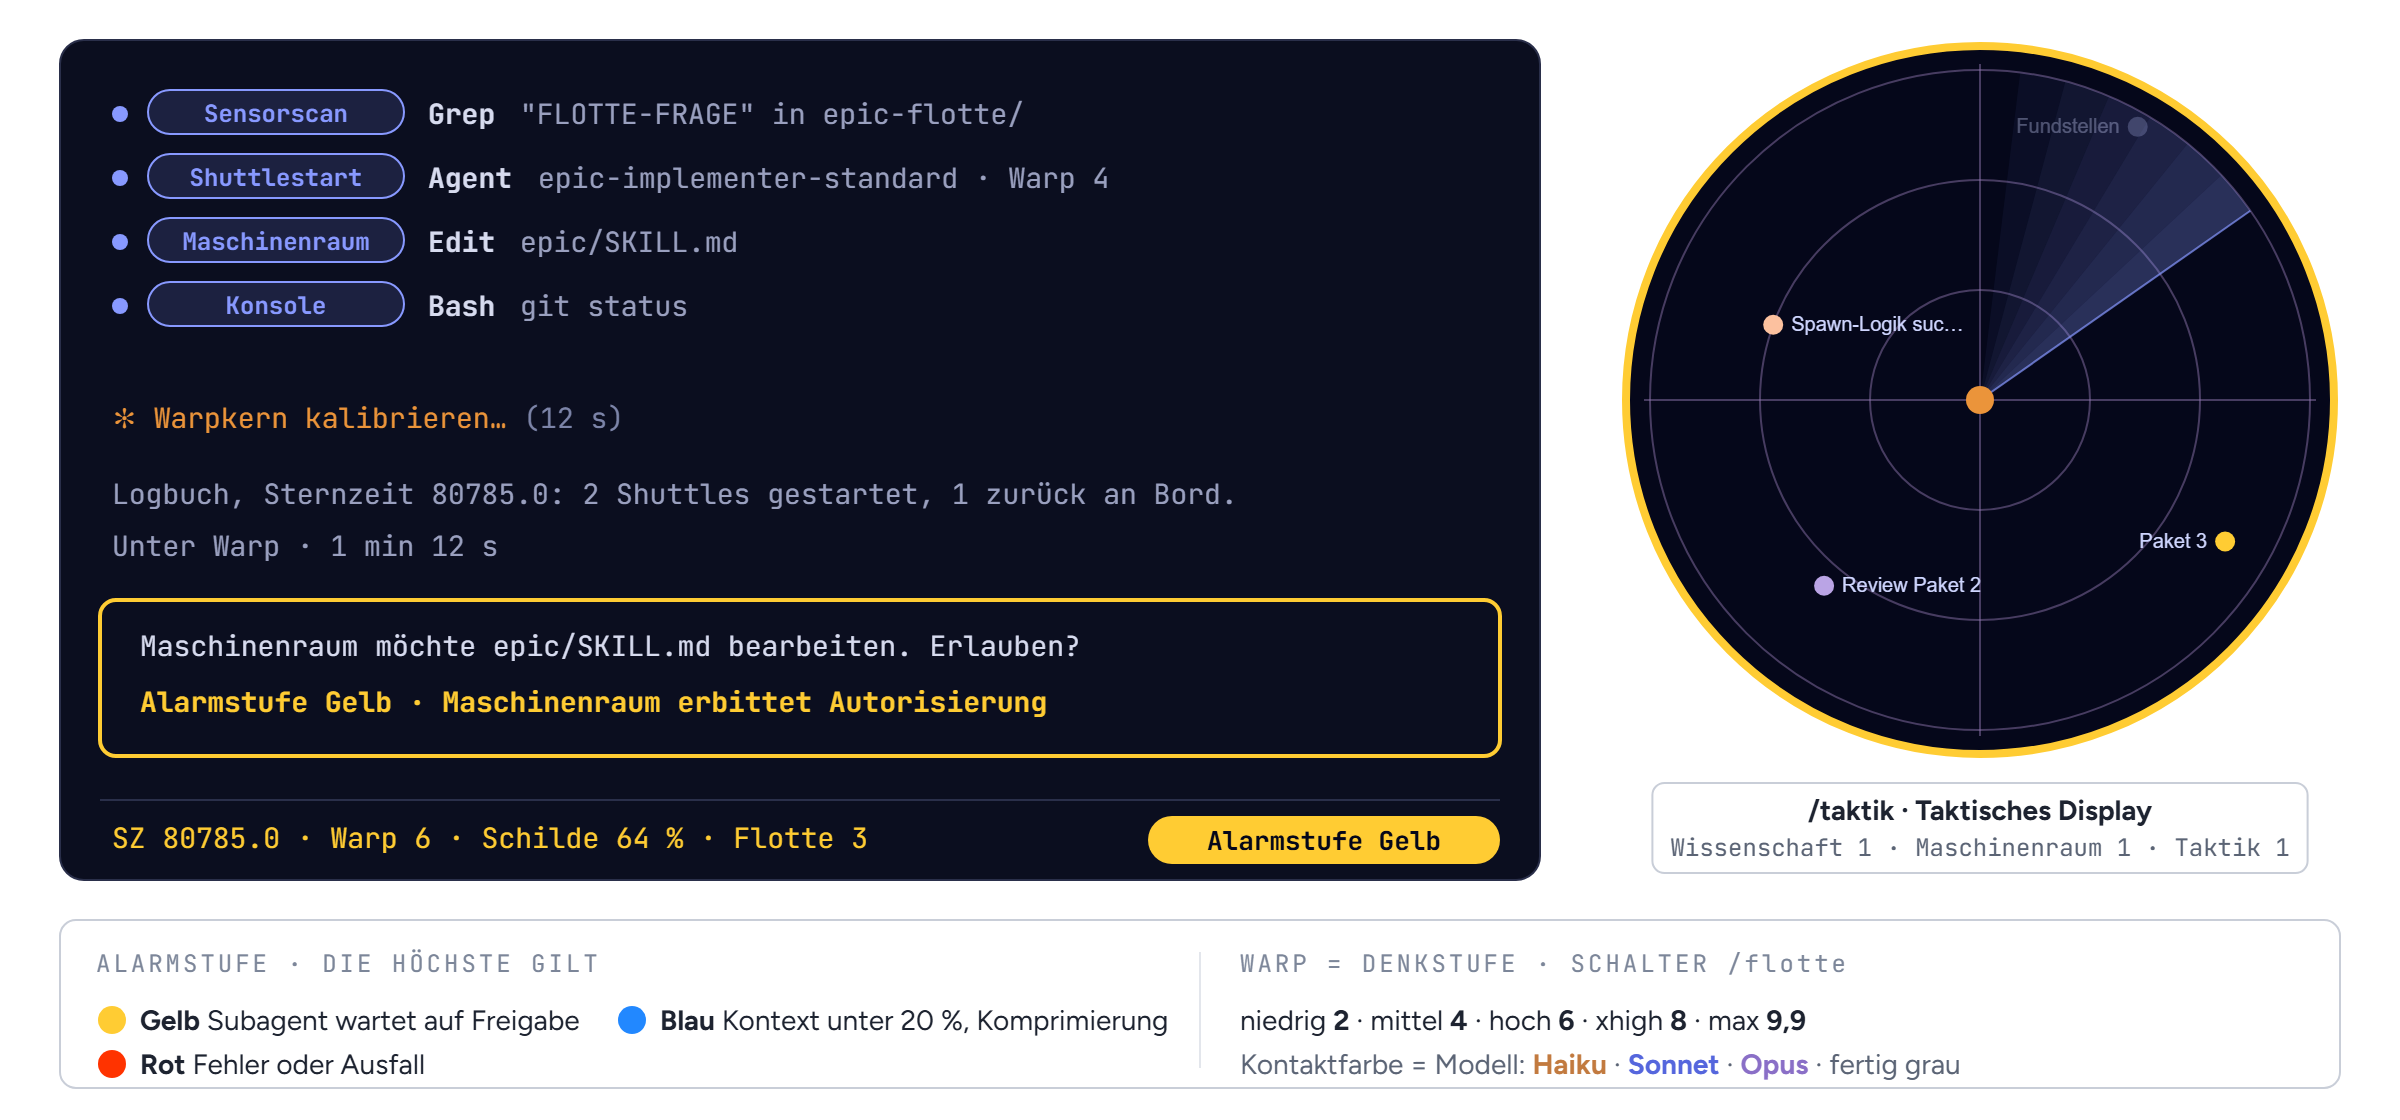
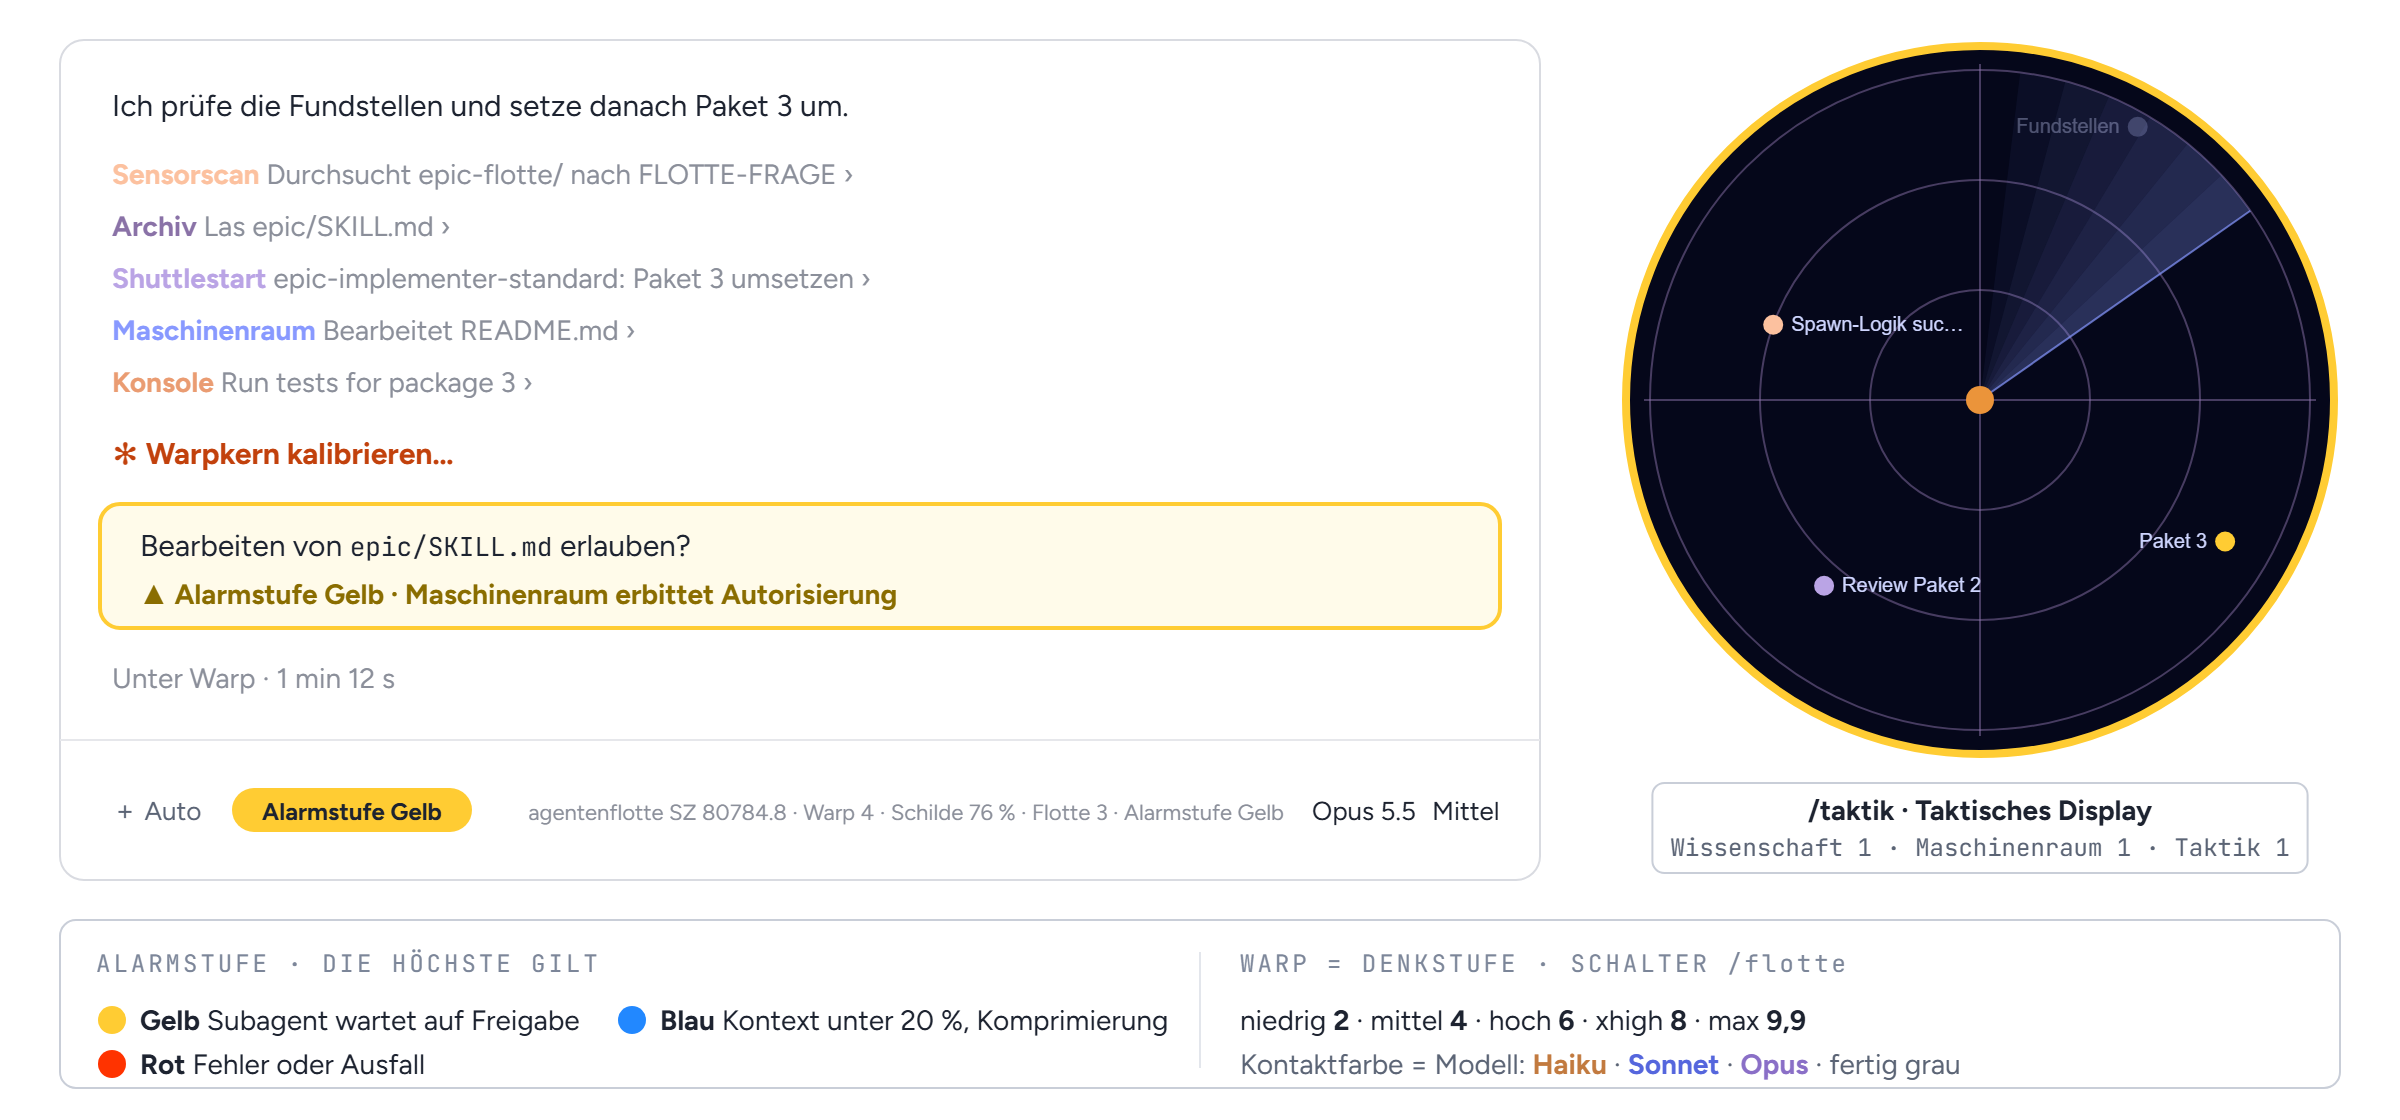
docs(readme): draw the agentenflotte bridge as the desktop app shows it

diff --git a/assets/agentenflotte/agentenflotte.html b/assets/agentenflotte/agentenflotte.html
@@ -9,22 +9,26 @@
   /* Transparent ground: the terminal and the radar are dark panels, the legend sits on a white plate. */
 </style>
 <svg id="pic" viewBox="0 0 1200 560" xmlns="http://www.w3.org/2000/svg" role="img" aria-label="Brückenbild: das Plugin agentenflotte im Terminal und als taktisches Display">
-  <!-- terminal -->
-  <rect x="30" y="20" width="740" height="420" rx="12" fill="#0b0e1f" stroke="#2a2f4a"/>
-  <g font-family="JetBrains Mono" font-size="14" fill="#d7dbef">
+  <!-- desktop app: conversation and footer as the bridge draws them -->
+  <rect x="30" y="20" width="740" height="420" rx="12" fill="#ffffff" stroke="#d9dbe1"/>
+  <g font-family="Figtree" font-size="15" fill="#1d2330">
+    <text x="56" y="58">Ich prüfe die Fundstellen und setze danach Paket 3 um.</text>
     <g id="rows"></g>
-    <text x="56" y="214" fill="#eb943a">✻ Warpkern kalibrieren… <tspan fill="#7c84a8">(12 s)</tspan></text>
-    <text x="56" y="252" fill="#9aa0bf">Logbuch, Sternzeit 80785.0: 2 Shuttles gestartet, 1 zurück an Bord.</text>
-    <text x="56" y="278" fill="#9aa0bf">Unter Warp · 1 min 12 s</text>
+    <text x="56" y="232" font-size="15" fill="#c2410c" font-weight="700">✻ Warpkern kalibrieren…</text>
 
-    <rect x="50" y="300" width="700" height="78" rx="8" fill="none" stroke="#ffcc33" stroke-width="2"/>
-    <text x="70" y="328">Maschinenraum möchte epic/SKILL.md bearbeiten. Erlauben?</text>
-    <text x="70" y="356" fill="#ffcc33" font-weight="700">Alarmstufe Gelb · Maschinenraum erbittet Autorisierung</text>
+    <rect x="50" y="252" width="700" height="62" rx="10" fill="#fffbea" stroke="#ffcc33" stroke-width="2"/>
+    <text x="70" y="278">Bearbeiten von <tspan font-family="JetBrains Mono" font-size="13">epic/SKILL.md</tspan> erlauben?</text>
+    <text x="70" y="302" font-size="14" fill="#8a6d00" font-weight="700">▲ Alarmstufe Gelb · Maschinenraum erbittet Autorisierung</text>
 
-    <line x1="50" y1="400" x2="750" y2="400" stroke="#2a2f4a"/>
-    <text x="56" y="424" fill="#ffcc33">SZ 80785.0 · Warp 6 · Schilde 64 % · Flotte 3</text>
-    <rect x="574" y="408" width="176" height="24" rx="12" fill="#ffcc33"/>
-    <text x="662" y="425" text-anchor="middle" fill="#05071a" font-weight="700" font-size="13">Alarmstufe Gelb</text>
+    <text x="56" y="344" font-size="14" fill="#8b8f9a">Unter Warp · 1 min 12 s</text>
+
+    <line x1="30" y1="370" x2="770" y2="370" stroke="#e6e7eb"/>
+    <text x="56" y="410" font-size="13" fill="#5b6475">＋  Auto</text>
+    <rect x="116" y="394" width="120" height="22" rx="11" fill="#ffcc33"/>
+    <text x="176" y="410" text-anchor="middle" font-size="12" font-weight="700" fill="#1d2330">Alarmstufe Gelb</text>
+    <text x="642" y="410" text-anchor="end" font-size="11" fill="#8b8f9a">agentenflotte  SZ 80784.8 · Warp 4 · Schilde 76 % · Flotte 3 · Alarmstufe Gelb</text>
+    <text x="656" y="410" font-size="13" fill="#1d2330">Opus 5.5</text>
+    <text x="716" y="410" font-size="13" fill="#1d2330">Mittel</text>
   </g>
 
   <!-- radar, geometry and colors as radarSvg in agentenflotte/hooks/taktik.tsx, scaled -->
@@ -58,20 +62,19 @@
     return e;
   };
 
-  // tool rows with station labels
+  // tool rows: the station label is a bold word in its color before the row (bruecke.tsx, ToolUse)
   const rows = document.getElementById('rows');
   [
-    ['Sensorscan', 'Grep', '"FLOTTE-FRAGE" in epic-flotte/'],
-    ['Shuttlestart', 'Agent', 'epic-implementer-standard · Warp 4'],
-    ['Maschinenraum', 'Edit', 'epic/SKILL.md'],
-    ['Konsole', 'Bash', 'git status'],
-  ].forEach(([station, tool, arg], i) => {
-    const y = 62 + i * 32;
-    el(rows, 'circle', { cx: 60, cy: y - 5, r: 4, fill: '#8899ff' });
-    el(rows, 'rect', { x: 74, y: y - 17, width: 128, height: 22, rx: 11, fill: '#1c2140', stroke: '#8899ff' });
-    el(rows, 'text', { x: 138, y: y - 1, 'text-anchor': 'middle', fill: '#8899ff', 'font-size': 12, 'font-weight': 700 }, station);
-    el(rows, 'text', { x: 214, y, 'font-weight': 700 }, tool);
-    el(rows, 'text', { x: 214 + tool.length * 9 + 10, y, fill: '#9aa0bf' }, arg);
+    ['Sensorscan', '#fcc19f', 'Durchsucht epic-flotte/ nach FLOTTE-FRAGE'],
+    ['Archiv', '#8a72a7', 'Las epic/SKILL.md'],
+    ['Shuttlestart', '#baa4e5', 'epic-implementer-standard: Paket 3 umsetzen'],
+    ['Maschinenraum', '#8899ff', 'Bearbeitet README.md'],
+    ['Konsole', '#ea9c72', 'Run tests for package 3'],
+  ].forEach(([station, color, text], i) => {
+    const y = 92 + i * 26;
+    const t = el(rows, 'text', { x: 56, y, 'font-size': 14 });
+    el(t, 'tspan', { fill: color, 'font-weight': 700 }, station + '  ');
+    el(t, 'tspan', { fill: '#8b8f9a' }, text + '  ›');
   });
 
   // radar

diff --git a/README.md b/README.md
@@ -65,7 +65,7 @@ deren Ablauf nicht.
 
 ## Plugin `agentenflotte`
 
-![Brückenbild: links ein Terminal mit Stationsetiketten an den Werkzeugzeilen, Brücken-Spinner, Logbuchzeile, einer Freigabe unter Alarmstufe Gelb und der Statuszeile mit Sternzeit, Warp, Schilden und Flotte; rechts das taktische Display als Radar mit der Hauptsitzung in der Mitte und den Subagenten als Kontakte. Darunter Alarmstufen und Warpfaktoren.](assets/agentenflotte/agentenflotte.png)
+![Brückenbild: links die Desktop-App mit farbigen Stationsetiketten vor den Werkzeugzeilen, Brücken-Spinner, einer Freigabe unter Alarmstufe Gelb, der Zeile Unter Warp und in der Fußleiste Alarm-Etikett und Statuszeile mit Sternzeit, Warp, Schilden und Flotte; rechts das taktische Display als Radar mit der Hauptsitzung in der Mitte und den Subagenten als Kontakte. Darunter Alarmstufen und Warpfaktoren.](assets/agentenflotte/agentenflotte.png)
 
 Ein Mod, der die Sitzung zur Schiffsbrücke macht: Subagenten sind Schiffe, Warpfaktor ist die
 Denkstufe, Alarmstufen zeigen, was auf dich wartet (Gelb Freigabe, Rot Fehler, Blau Kontext knapp).

diff --git a/assets/agentenflotte/README.md b/assets/agentenflotte/README.md
@@ -1,7 +1,8 @@
 # Brückenbild
 
 `agentenflotte.png` im README des Repositorys wird aus `agentenflotte.html` gerendert:
-1200 × 560 px, doppelte Auflösung, transparenter Grund. Terminal und Statuszeile sind ein Beispiel;
+1200 × 560 px, doppelte Auflösung, transparenter Grund. Der Ausschnitt der Desktop-App ist ein nachgestelltes Beispiel (Etiketten und Farben aus
+`agentenflotte/hooks/bruecke.tsx`);
 das Radar folgt Maßen und Farben von `radarSvg` in `agentenflotte/hooks/taktik.tsx`.
 
 Ändert sich das Plugin sichtbar, erst `agentenflotte.html` anpassen, dann neu rendern (Git Bash,
